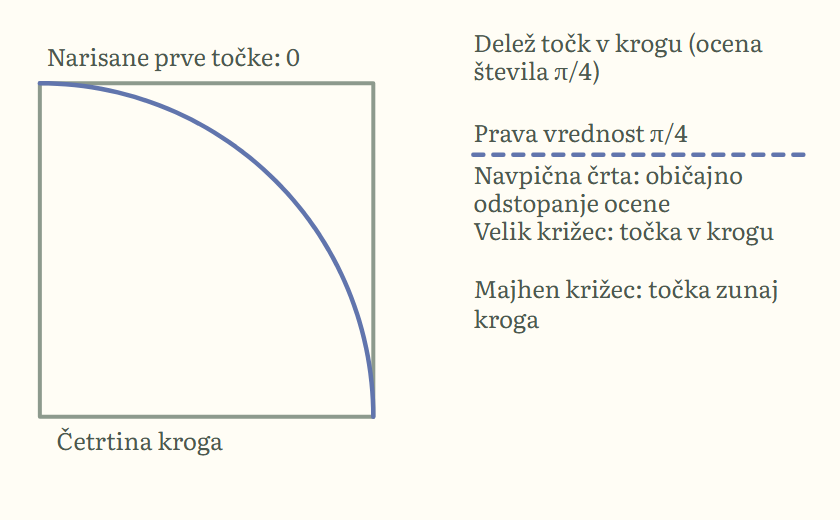
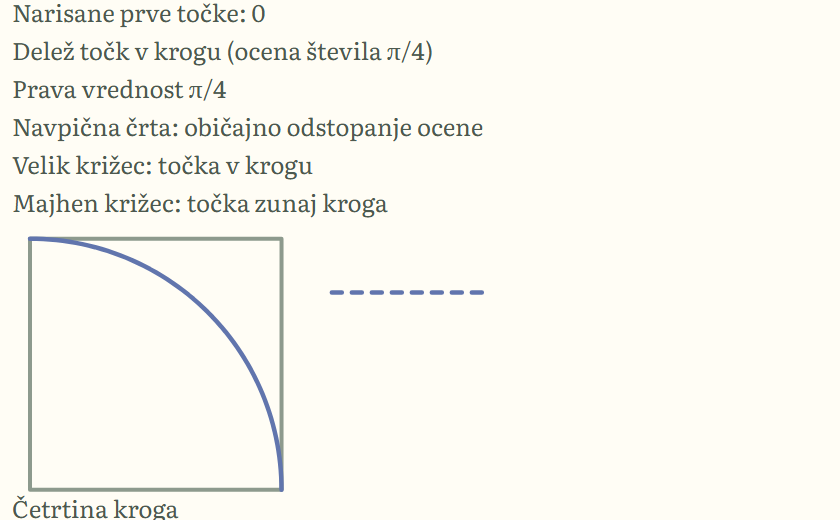
fix: recapture the Monte Carlo chapter card after the area layout fix
The 840 px card board now uses the compact area layout (captions stacked
above the square), so the old window laid the captions over the shape.
New window at one scale; the RS3 expectation keeps the curve count but no
longer pins the pi/4 line's x range, which depends on the layout. RS1, RS2
and RS4 cards are byte-identical. Alt text describes the stacked captions.

Claude-Session: https://claude.ai/code/session_01UfEZWLH6vUJsFPursrRgkJ

Changed region(s): [[0.0, 0.0, 0.9595, 1.0], [0.5571, 0.0615, 0.9286, 0.1538], [0.1857, 0.5231, 0.2167, 0.5538]]

diff --git a/src/learning/content/randomnessPreviewCopy.ts b/src/learning/content/randomnessPreviewCopy.ts
@@ -24,8 +24,8 @@ export const randomnessPreviewCopy = {
         'A fair coin, seed \\(42\\), \\(10\\) tosses: the relative frequency of heads \\(f\\) against the line \\(\\tfrac12\\) and the \\(95\\,\\%\\) band.',
     ),
     'randomness.monte-carlo.prob-simulation': copy(
-        'Krem ozadje. Levo kvadrat s tanko sivozeleno obrobo in debel moder lok četrtine kroga od zgornjega levega do spodnjega desnega oglišča; nad kvadratom besedilo Narisane prve točke: 0, pod njim Četrtina kroga. V kvadratu ni nobene točke. Desno od kvadrata vrstice besedila: Delež točk v krogu (ocena števila π/4), Prava vrednost π/4 nad vodoravno črtkano modro črto, nato Navpična črta: običajno odstopanje ocene, Velik križec: točka v krogu ter Majhen križec: točka zunaj kroga.',
-        'Cream background. On the left a square with a thin grey-green outline and a thick blue quarter circle arc from the upper left to the lower right corner; above the square the text Drawn first points: 0, below it Quarter circle. The square holds no point. To the right of the square lines of text: Share of points in the circle (estimate of the number π/4), True value π/4 above a horizontal dashed blue line, then Vertical line: usual deviation of the estimate, Large cross: point in the circle and Small cross: point outside the circle.',
+        'Krem ozadje. Zgoraj levo šest vrstic besedila: Narisane prve točke: 0, Delež točk v krogu (ocena števila π/4), Prava vrednost π/4, Navpična črta: običajno odstopanje ocene, Velik križec: točka v krogu ter Majhen križec: točka zunaj kroga. Pod njimi kvadrat s tanko sivozeleno obrobo in debel moder lok četrtine kroga od zgornjega levega do spodnjega desnega oglišča, pod kvadratom besedilo Četrtina kroga. V kvadratu ni nobene točke. Desno od kvadrata vodoravna črtkana modra črta.',
+        'Cream background. At the top left six lines of text: Drawn first points: 0, Share of points in the circle (estimate of the number π/4), True value π/4, Vertical line: usual deviation of the estimate, Large cross: point in the circle and Small cross: point outside the circle. Below them a square with a thin grey-green outline and a thick blue quarter circle arc from the upper left to the lower right corner, below the square the text Quarter circle. The square holds no point. To the right of the square a horizontal dashed blue line.',
         'Kvadrat s četrtino kroga, seme \\(42\\), \\(100\\) točk: še nobena ni vržena.',
         'The square with the quarter circle, seed \\(42\\), \\(100\\) points: none thrown yet.',
     ),

diff --git a/docs/reviews/feature-streams/families-prep/notes/f5-randomness.md b/docs/reviews/feature-streams/families-prep/notes/f5-randomness.md
@@ -35,3 +35,13 @@
 - Layout check (not shipped; `layout.cjs`, `*-max-*.png` here): area n = 100000 (300 points drawn) and walk 400 steps x 1000 walks at 1366 and 390 px boards via the route; captions clear, at 390 the area captions wrap but do not touch lines. The card capture has no width option (card is always 840x520).
 - Copy: alt and caption for the two ids; no share, no end position, no run value.
 - Checks: script test, `just unit src/learning/chapter src/learning/content/familyChapters.test.ts`, scope tests, tsc (empty log), lint, rawcheck all green. Not run: smoke test, `demonstration-preview-capture.test.cjs`.
+
+## Card recapture after the layout fix (handler 34)
+
+- `4a620878` made the 840 px card board a compact-layout area board (captions stacked above and below the shape; the pi/4 line now runs x 1.2 to 1.8 there, 1.3 to 2.3 on the wide lesson board). The old window, written for the side layout, laid six caption rows over the square. Recaptured with `--chapter randomness` against `just preview 4527` (stopped afterwards); logs in `.command-logs/rand-b/f4b/`.
+- Capture changes: the RS3 expectation (`randomnessFrames`, and its script-test copy) no longer checks the pi/4 line's samples, because lesson board and card disagree on them (curve count still 3); the area window in `randomnessWindows` is now the compact frame at one scale: `[0.246, 1.724, 2.855, 0.106]` (order minX, maxY, maxX, minY; the capture widens it 28 percent).
+- RS1, RS2 and RS4 PNGs byte-identical (RS4 has no drawn walk, so one bar scale changes nothing at position 0). Only RS3 changed.
+- Viewed, area: six caption rows top left clear of the shape; square below with a round quarter arc (equal units); dashed pi/4 line right of the square, no panel overprinting; "Četrtina kroga" sits right under the bottom edge, close but not touching; everything inside the card.
+- Viewed, walk: four caption rows top left, dashed funnel from the left edge, green axis and the bell-shaped law bars right, inside the card, nothing overprinting.
+- Alt text of RS3 rewritten (captions now stacked above, line right of the square); RS4 alt unchanged. rawcheck clean.
+- Checks: script test, `just unit src/learning/chapter src/learning/content/familyChapters.test.ts`, lint, `just tooling-test` green. Not run: smoke test.
